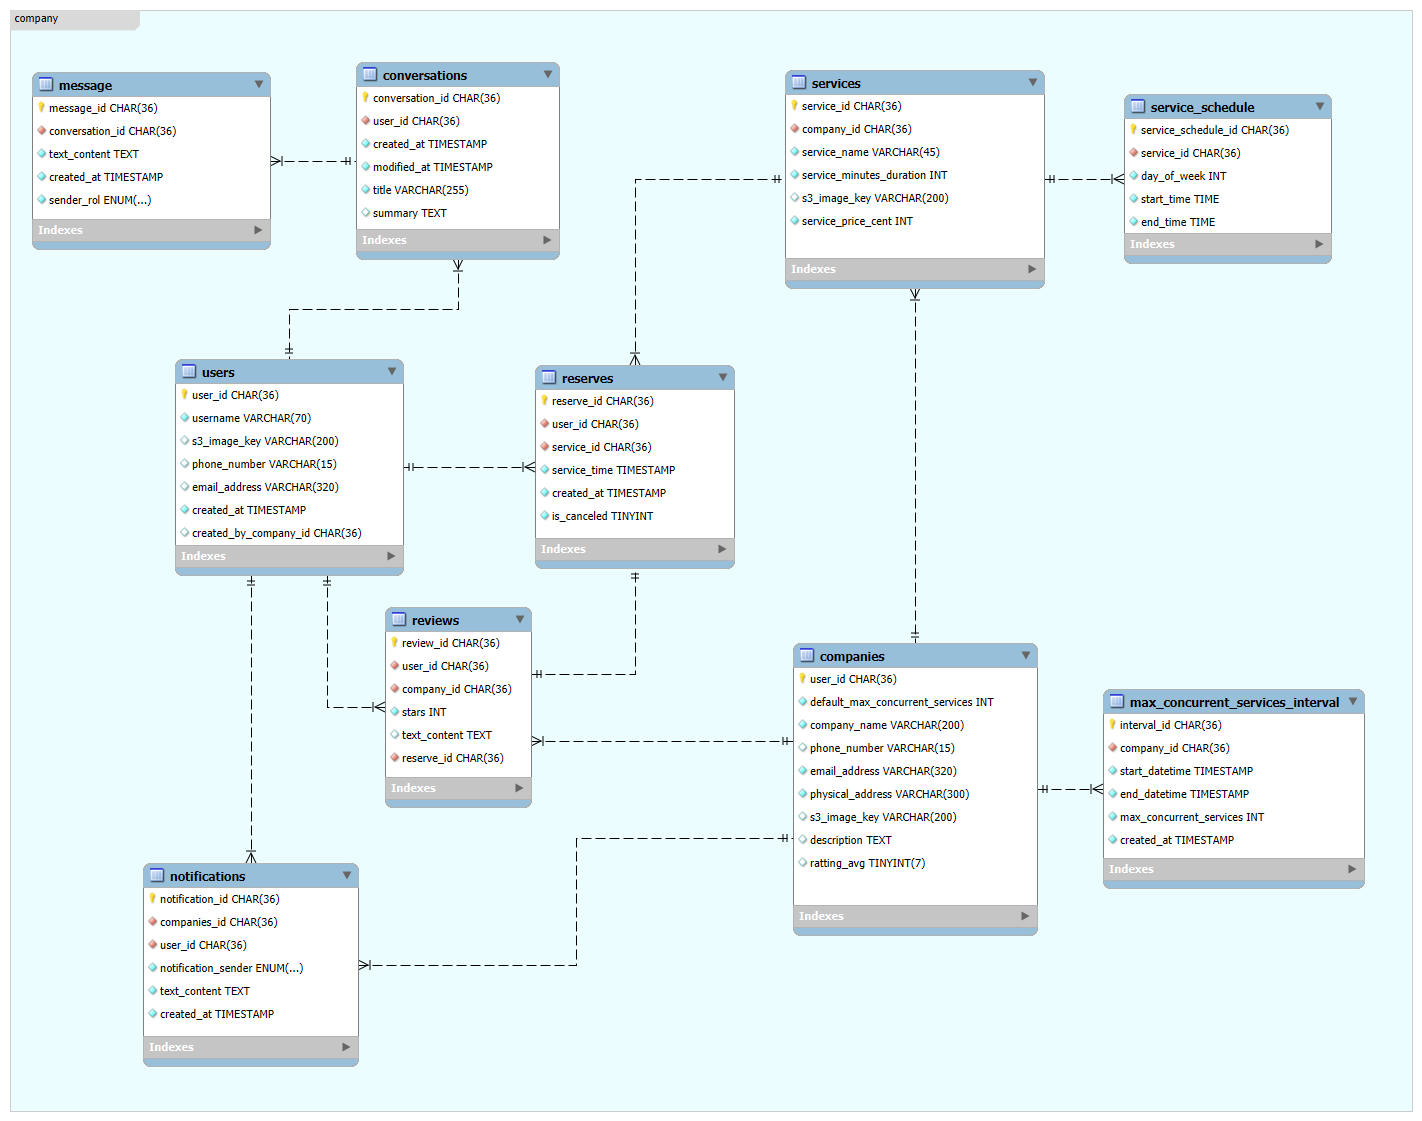
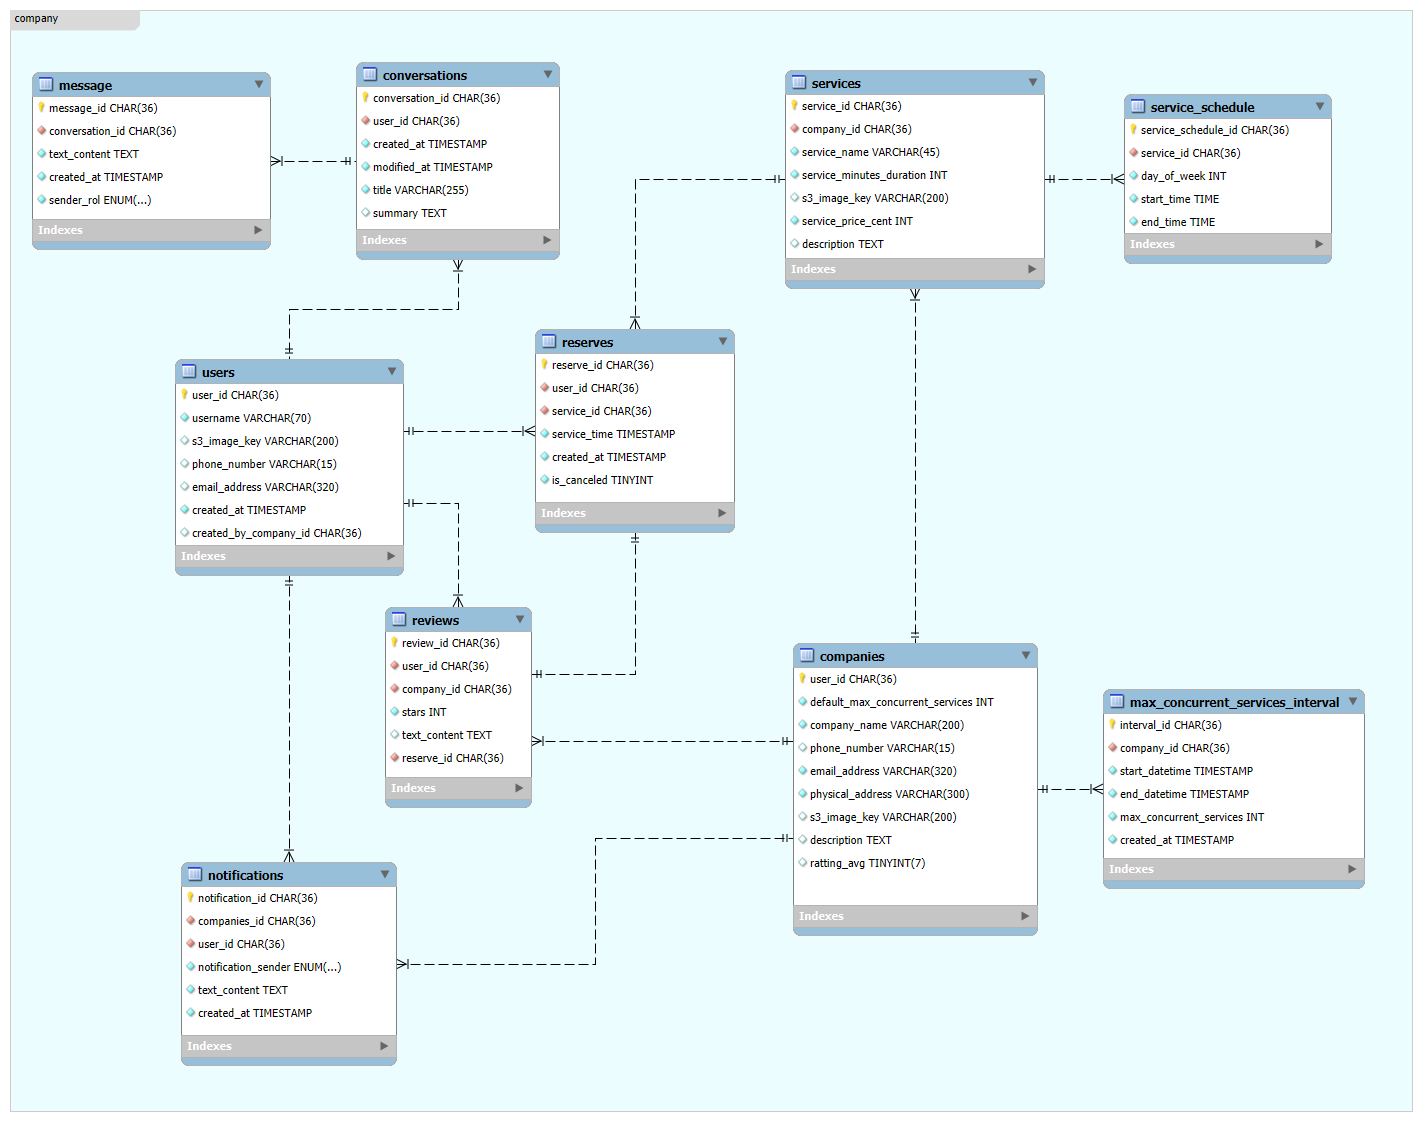
feat: crea un campo description en la db para la descripción de cada service

Changed region(s): [[0.3713, 0.281, 0.526, 0.5308], [0.0928, 0.7493, 0.2785, 0.9679], [0.2475, 0.9054, 0.2785, 0.9679]]

diff --git a/db/README.md b/db/README.md
@@ -47,6 +47,7 @@ Este directorio contiene los scripts y el modelo de la base de datos del proyect
    - `service_minutes_duration` INT
    - `s3_image_key` VARCHAR(200)
    - `service_price_cent` INT
+   - `description` TEXT
 
 4. `reserves`
    - `reserve_id` UUID PK
